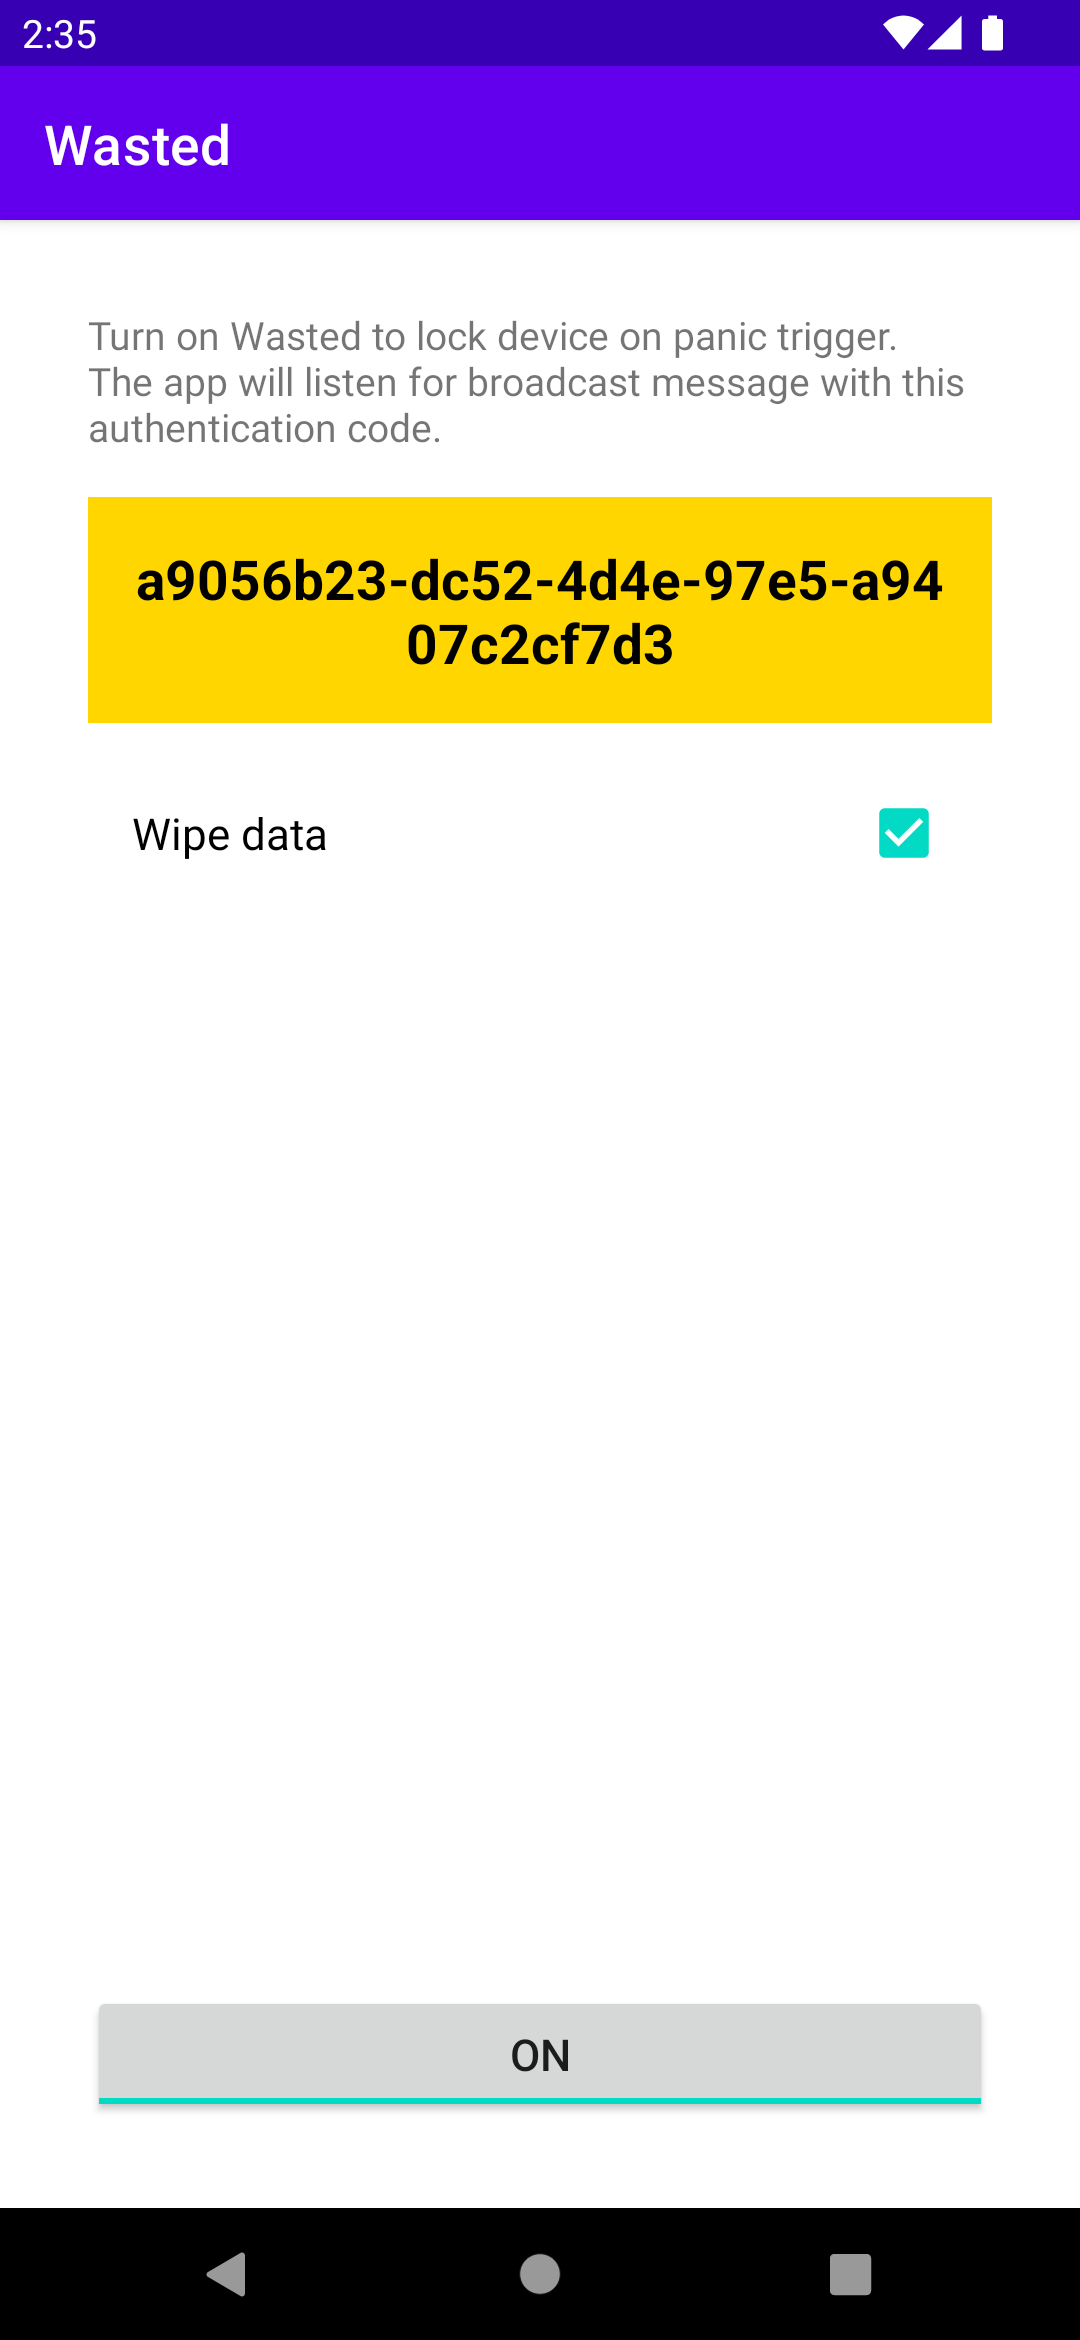
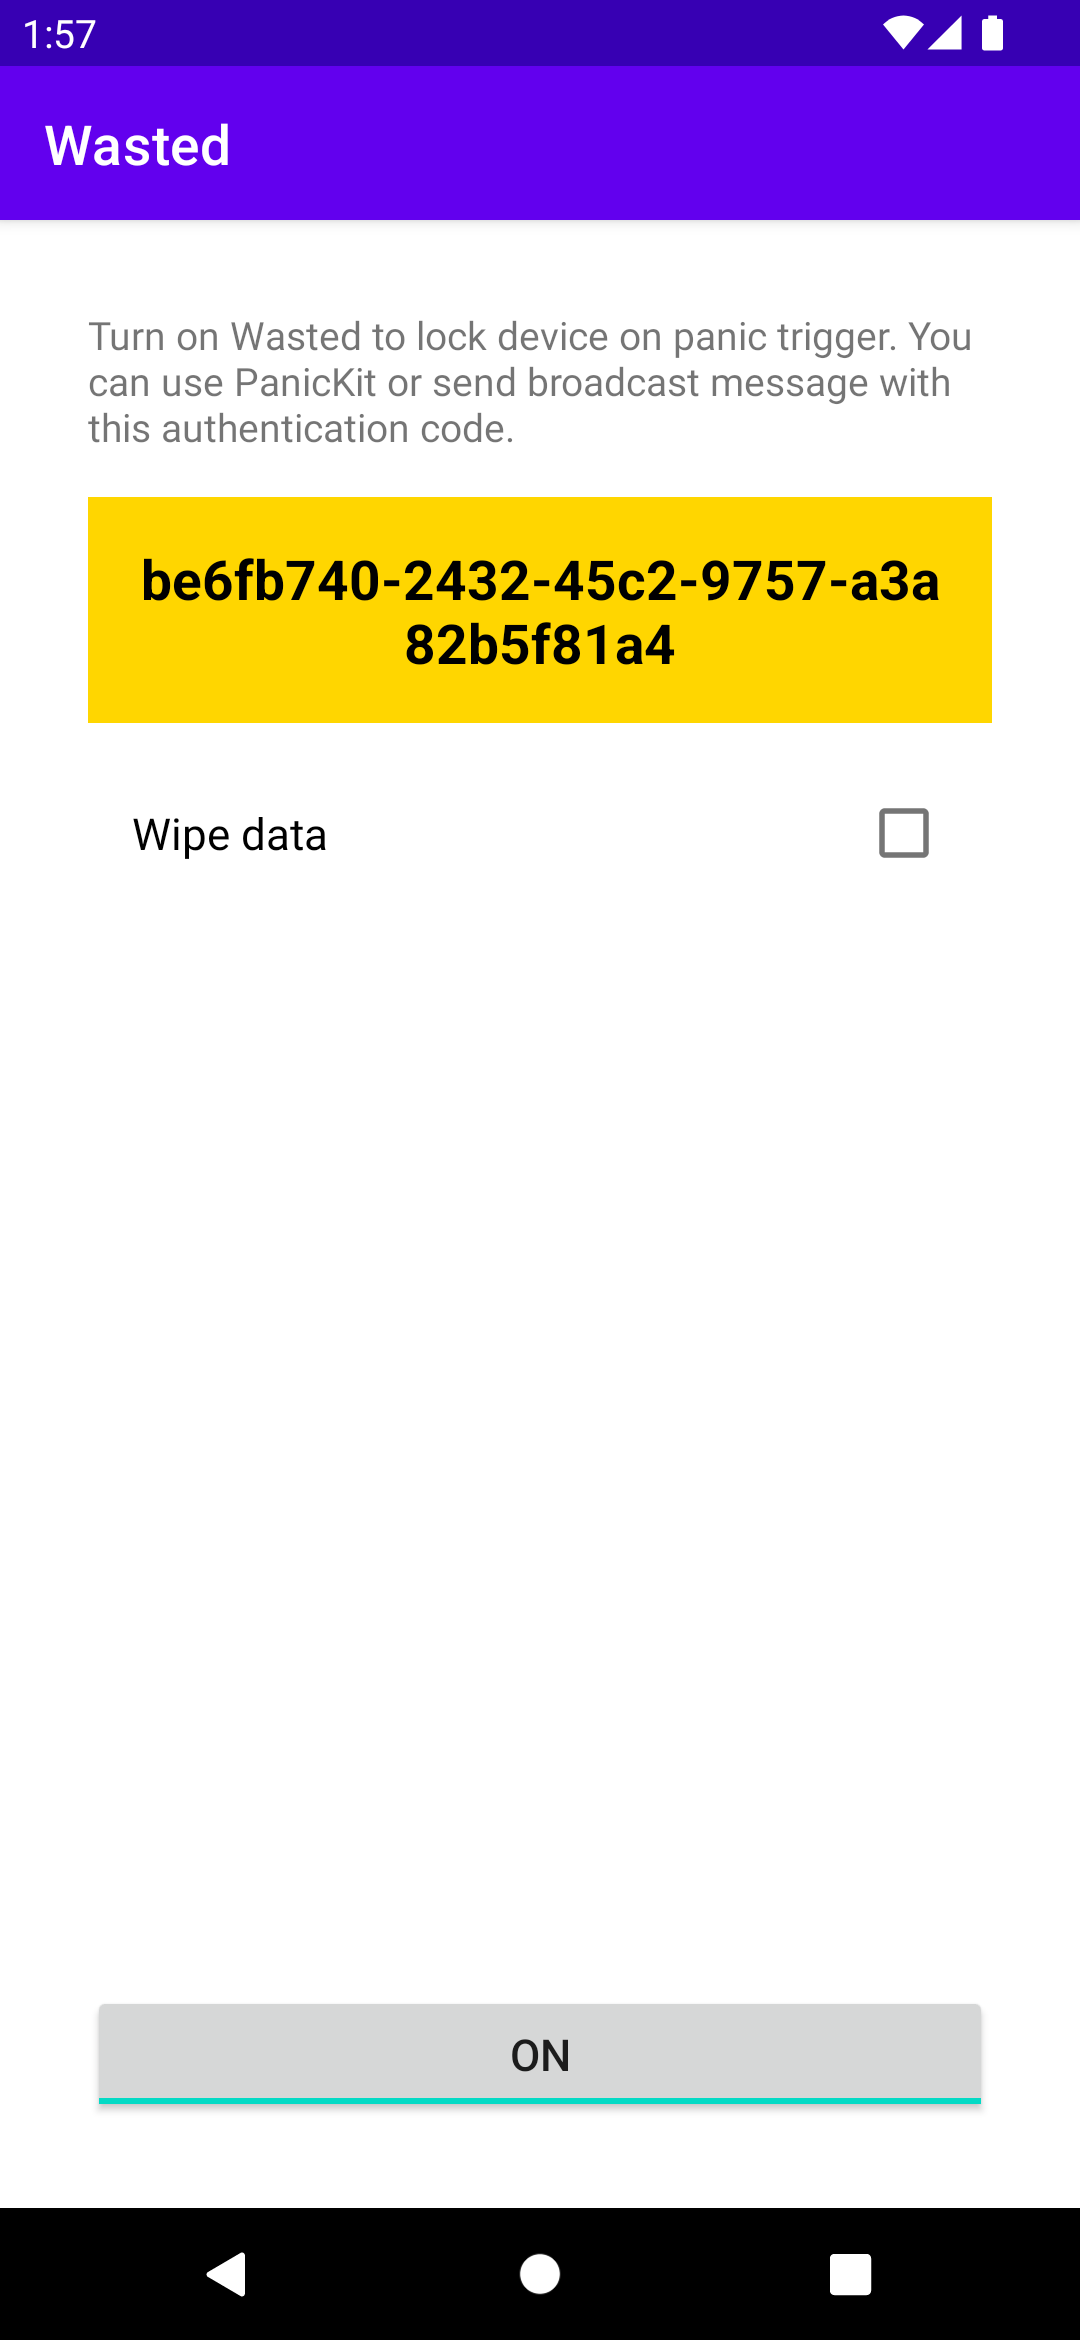
add PanicKit

diff --git a/app/src/main/java/me/lucky/wasted/PanicConnectionActivity.kt b/app/src/main/java/me/lucky/wasted/PanicConnectionActivity.kt
@@ -1,0 +1,50 @@
+package me.lucky.wasted
+
+import android.content.pm.PackageManager
+import android.os.Bundle
+
+import androidx.appcompat.app.AlertDialog
+
+import info.guardianproject.panic.PanicResponder
+
+class PanicConnectionActivity : MainActivity() {
+
+    private val pm by lazy { packageManager }
+
+    override fun onCreate(savedInstanceState: Bundle?) {
+        super.onCreate(savedInstanceState)
+        if (PanicResponder.checkForDisconnectIntent(this)) {
+            finish()
+            return
+        }
+        val sender = PanicResponder.getConnectIntentSender(this)
+        val packageName = PanicResponder.getTriggerPackageName(this)
+        if (sender != "" && sender != packageName) {
+            showOptInDialog()
+        }
+    }
+
+    private fun showOptInDialog() {
+        var app: CharSequence = getString(R.string.panic_app_unknown_app)
+        val packageName = callingActivity?.packageName
+        if (packageName != null) {
+            try {
+                app = pm.getApplicationLabel(pm.getApplicationInfo(packageName, 0))
+            } catch (exc: PackageManager.NameNotFoundException) {}
+        }
+
+        AlertDialog.Builder(this).apply {
+            setTitle(getString(R.string.panic_app_dialog_title))
+            setMessage(String.format(getString(R.string.panic_app_dialog_message), app))
+            setNegativeButton(R.string.allow) { _, _ ->
+                PanicResponder.setTriggerPackageName(this@PanicConnectionActivity)
+                setResult(RESULT_OK)
+            }
+            setPositiveButton(R.string.cancel) { _, _ ->
+                setResult(RESULT_CANCELED)
+                finish()
+            }
+            show()
+        }
+    }
+}

diff --git a/app/src/main/java/me/lucky/wasted/PanicResponderActivity.kt b/app/src/main/java/me/lucky/wasted/PanicResponderActivity.kt
@@ -1,0 +1,30 @@
+package me.lucky.wasted
+
+import android.app.admin.DevicePolicyManager
+import android.content.Context
+import android.os.Bundle
+
+import androidx.appcompat.app.AppCompatActivity
+
+import info.guardianproject.panic.Panic
+import info.guardianproject.panic.PanicResponder
+
+class PanicResponderActivity : AppCompatActivity() {
+    private val prefs by lazy { Preferences(this) }
+    private val dpm by lazy {
+        getSystemService(Context.DEVICE_POLICY_SERVICE) as DevicePolicyManager }
+
+    override fun onCreate(savedInstanceState: Bundle?) {
+        super.onCreate(savedInstanceState)
+        if (!Panic.isTriggerIntent(intent) || !prefs.isServiceEnabled) {
+            finish()
+            return
+        }
+        try {
+            dpm.lockNow()
+            if (PanicResponder.receivedTriggerFromConnectedApp(this) &&
+                prefs.doWipe) dpm.wipeData(0)
+        } catch (exc: SecurityException) {}
+        finish()
+    }
+}

diff --git a/app/src/main/java/me/lucky/wasted/MainActivity.kt b/app/src/main/java/me/lucky/wasted/MainActivity.kt
@@ -1,7 +1,6 @@
 package me.lucky.wasted
 
 import android.app.admin.DevicePolicyManager
-import android.app.Activity
 import android.content.ComponentName
 import android.content.Context
 import android.content.Intent
@@ -15,7 +14,7 @@ import java.util.*
 
 import me.lucky.wasted.databinding.ActivityMainBinding
 
-class MainActivity : AppCompatActivity() {
+open class MainActivity : AppCompatActivity() {
     private lateinit var binding: ActivityMainBinding
 
     private val prefs by lazy { Preferences(this) }
@@ -26,7 +25,7 @@ class MainActivity : AppCompatActivity() {
     private val requestAdminPolicy =
         registerForActivityResult(ActivityResultContracts.StartActivityForResult()) { result ->
         when (result.resultCode) {
-            Activity.RESULT_OK -> setOn()
+            RESULT_OK -> setOn()
             else -> binding.toggle.isChecked = false
         }
     }

diff --git a/README.md b/README.md
@@ -8,7 +8,7 @@ Lock device and wipe data on panic trigger.
 
 <img src="https://user-images.githubusercontent.com/53379023/146620711-e8675350-3634-4e45-825a-1661c8018b38.png" width="30%" height="30%">
 
-The app will listen for broadcast message with authentication code. On receive, using 
+You can use PanicKit or send broadcast message with authentication code. On trigger, using 
 [Device Administration API](https://developer.android.com/guide/topics/admin/device-admin), it 
 locks device and runs wipe.
 

diff --git a/SECURITY.md b/SECURITY.md
@@ -4,8 +4,8 @@
 
 | Version | Supported          |
 | ------- | ------------------ |
-| 1.0.x   | :white_check_mark: |
-| < 1.0   | :x:                |
+| 1.1.x   | :white_check_mark: |
+| < 1.1   | :x:                |
 
 ## Reporting a Vulnerability
 
